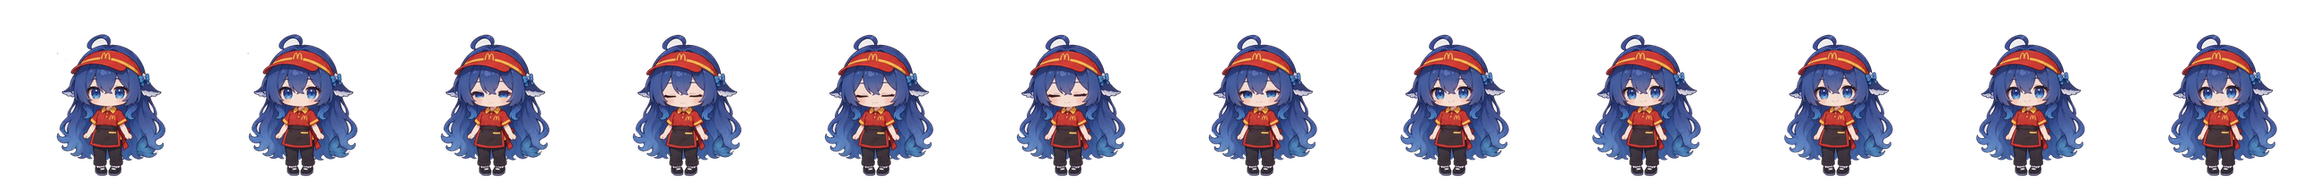
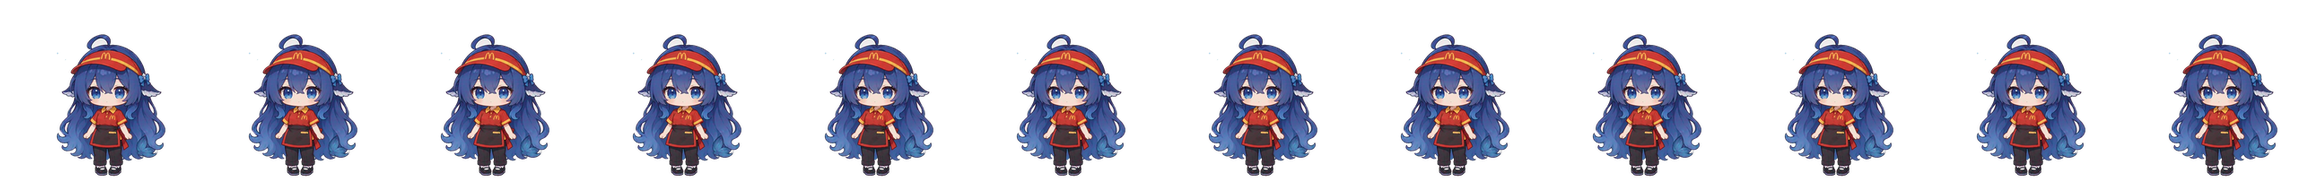
fix: hold maimai idle pose between blinks

diff --git a/scripts/build_deepseek_actions.py b/scripts/build_deepseek_actions.py
@@ -51,6 +51,8 @@ def main():
     frying = frames("frying", 96, 126)  # 7.68–10.08s, stable basket after the faulty early motion.
     outfit = frames("outfit", 6, 54)  # 0.48–4.32s, remove empty lead and tail.
     idle = frames("outfit", 58, 71)   # 4.64–5.68s, clean front-facing blink, no effects/tail.
+    # Hold the clean open-eye pose for 4s; keep the blink itself at its original speed.
+    idle = [idle[0]] * 50 + idle
     animations = {}
     for name, sequence in (("frying", frying), ("outfit", outfit), ("outfit-default", outfit[::-1])):
         animations[name] = pages(DEST, name, sequence)
@@ -68,6 +70,7 @@ def main():
     (skin / "manifest.json").write_text(json.dumps({"cell_size": 192, "columns": 12,
         "frame_delay_ms": 80, "preview": "preview.png", "skin_id": "maimai",
         "clip": [4.64, 5.68],
+        "open_eye_hold_ms": 4000,
         "animations": {state: entry for state in states},
         "fallback": "All logical states reuse the dressed idle; separate dressed poses are unavailable."},
         indent=2) + "\n", encoding="utf-8")

diff --git a/src/agent_service.py b/src/agent_service.py
@@ -129,7 +129,7 @@ class AgentService:
                         "rendering": "支持图像资源的宿主可展示；已运行的桌宠可接收此动作"}
             if skin == "maimai":
                 return {"uri": "mcpet://skin/deepseek/maimai", "mime_type": "image/gif",
-                        "duration_seconds": 1.04, "rendering": "持久麦麦皮肤；无对应穿装动作的状态复用穿装待机"}
+                        "duration_seconds": 5.04, "rendering": "持久麦麦皮肤；无对应穿装动作的状态复用穿装待机"}
         return {"rendering": "宿主中的角色状态；原素材保留，跨宿主动画显示能力未假定"}
 
     @staticmethod

diff --git a/assets/deepseek-skins/maimai/SOURCE.md b/assets/deepseek-skins/maimai/SOURCE.md
@@ -1,7 +1,9 @@
 # DeepSeek 娘 · 麦麦套装
 
-从用户换装视频 4.64–5.68 秒的穿装正面待机/眨眼提取；13 帧 × 80 ms = 1.04 秒。
+从用户换装视频 4.64–5.68 秒的穿装正面待机/眨眼提取，原眨眼段 13 帧 × 80 ms = 1.04 秒。
 2026-10-13 根据用户反馈缩短待机，去掉前缘转场残留和后段泡泡/转头，只保留正面眨眼。
+后续根据“眨眼不要这么频繁”的反馈，在眨眼前重复干净的睁眼首帧 50 次，延长停留 4 秒。
+现在每轮 63 帧 × 80 ms = 5.04 秒，约每 5 秒眨眼一次；眨眼速度不变，不引回已去掉的尾段。
 来源与固定缩放/落点见 [短动作来源](../../deepseek-actions/SOURCE.md)。
 
 default 继续使用 `assets/dsh-deepseek` 原始完整角色动作；maimai 是独立、可持久保存的皮肤，
